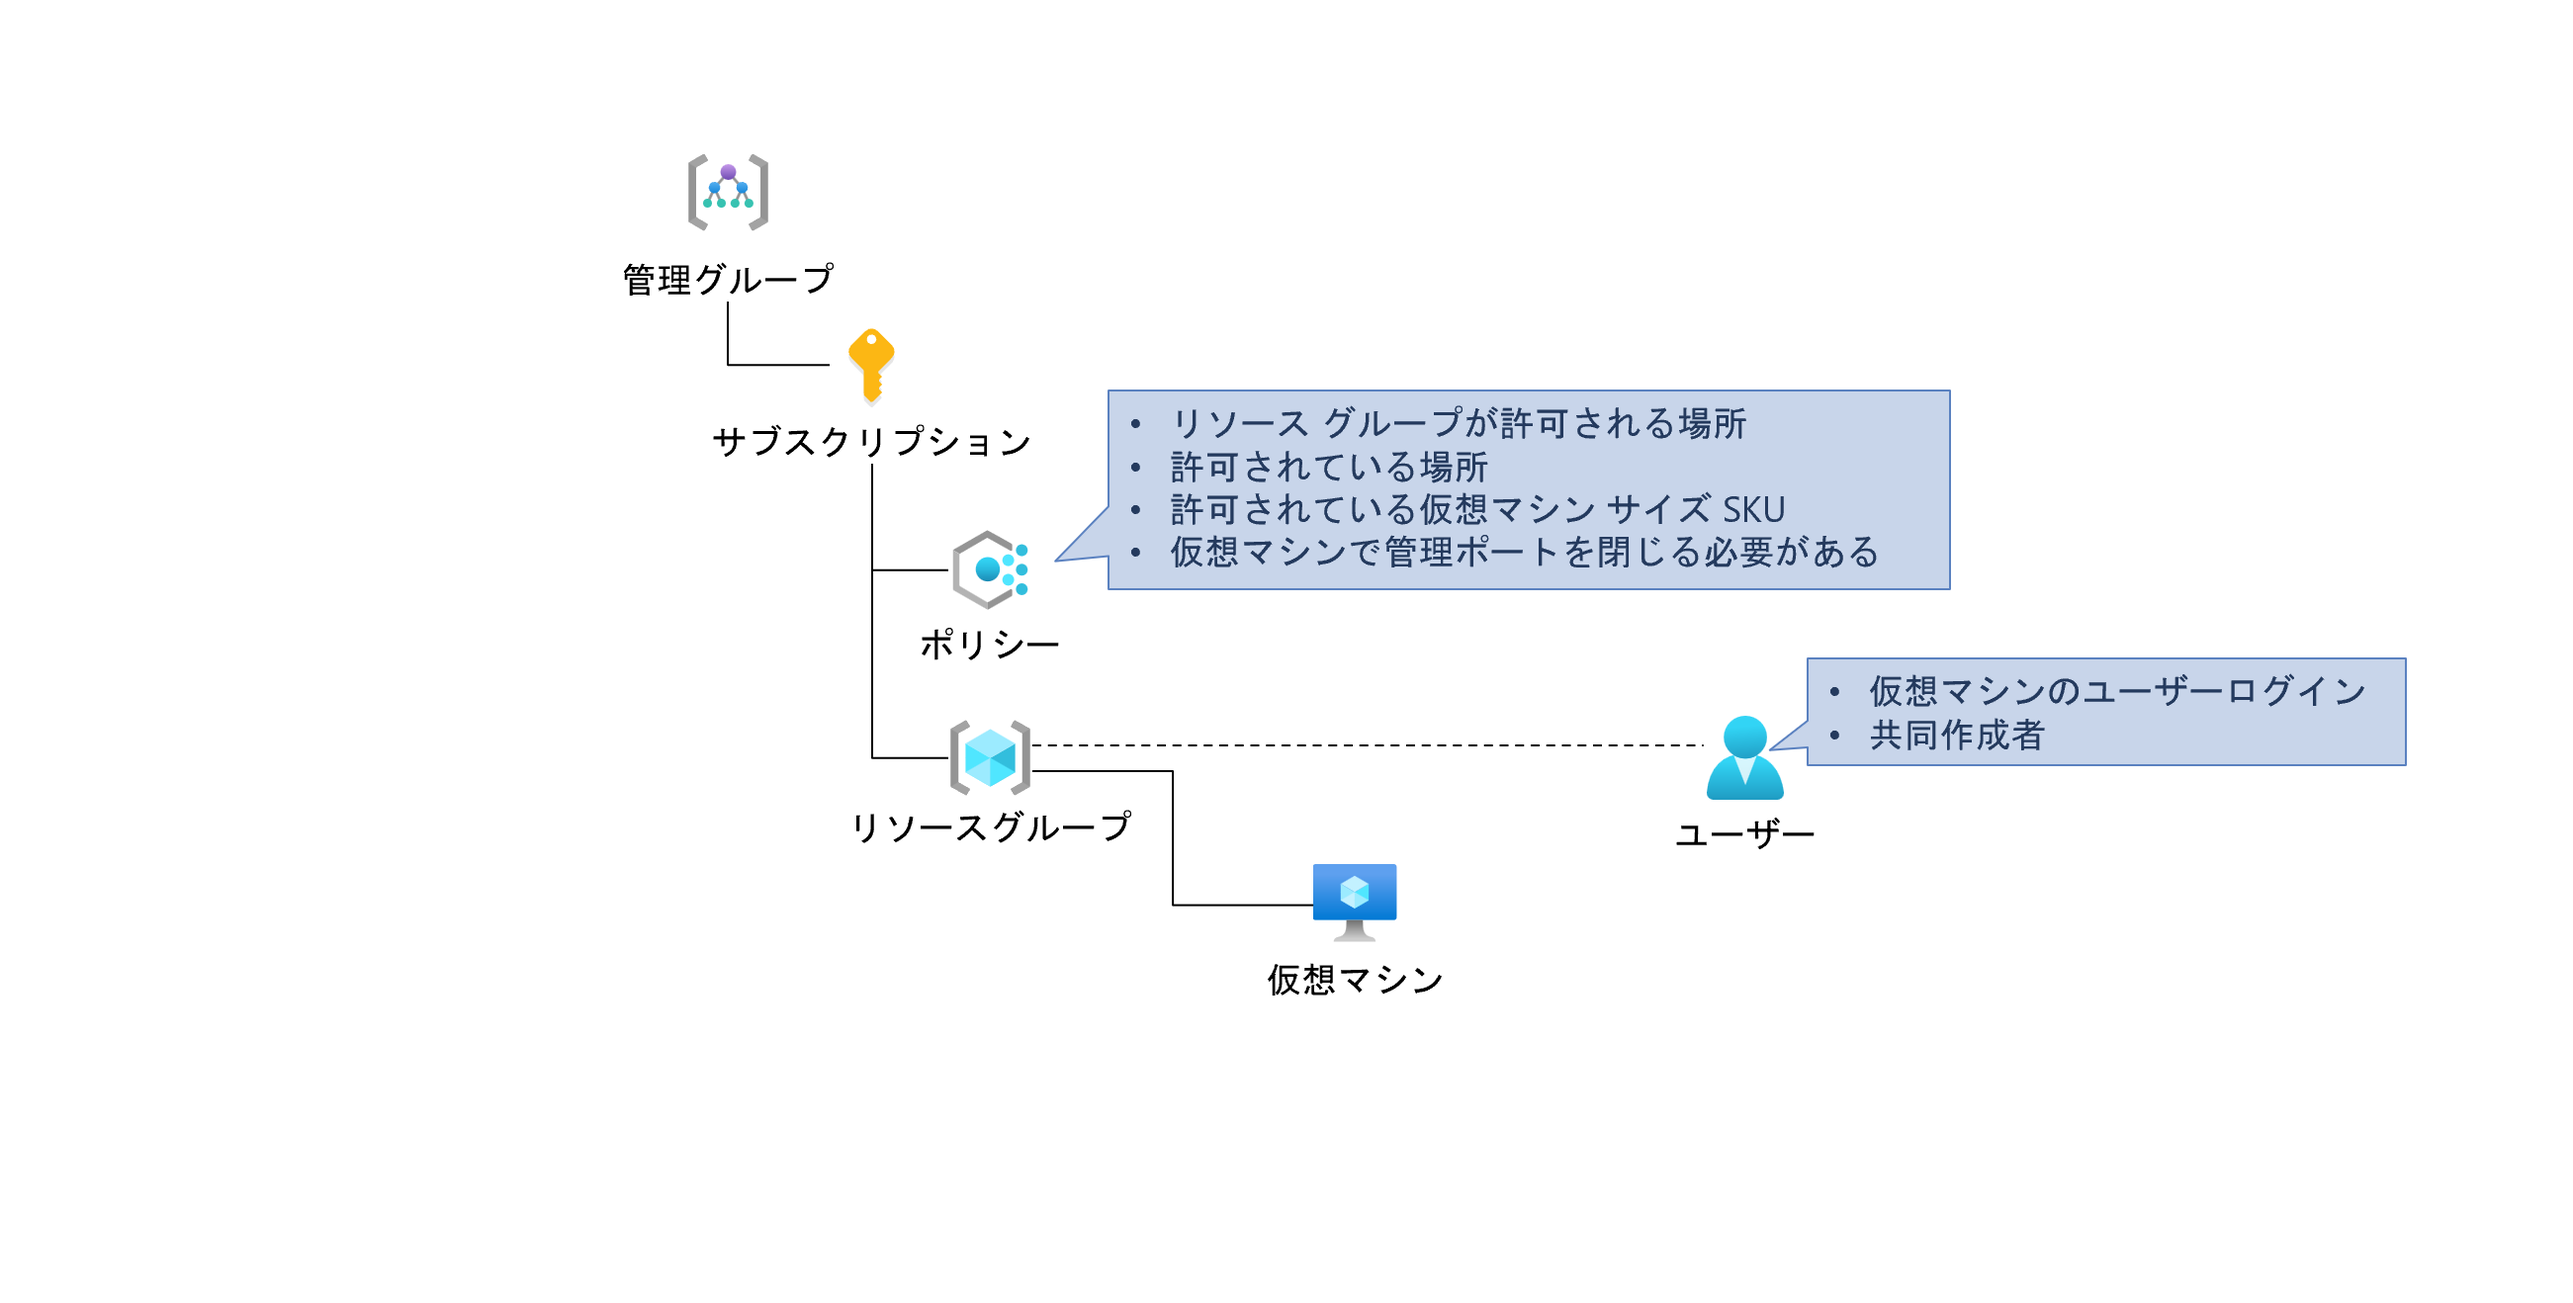
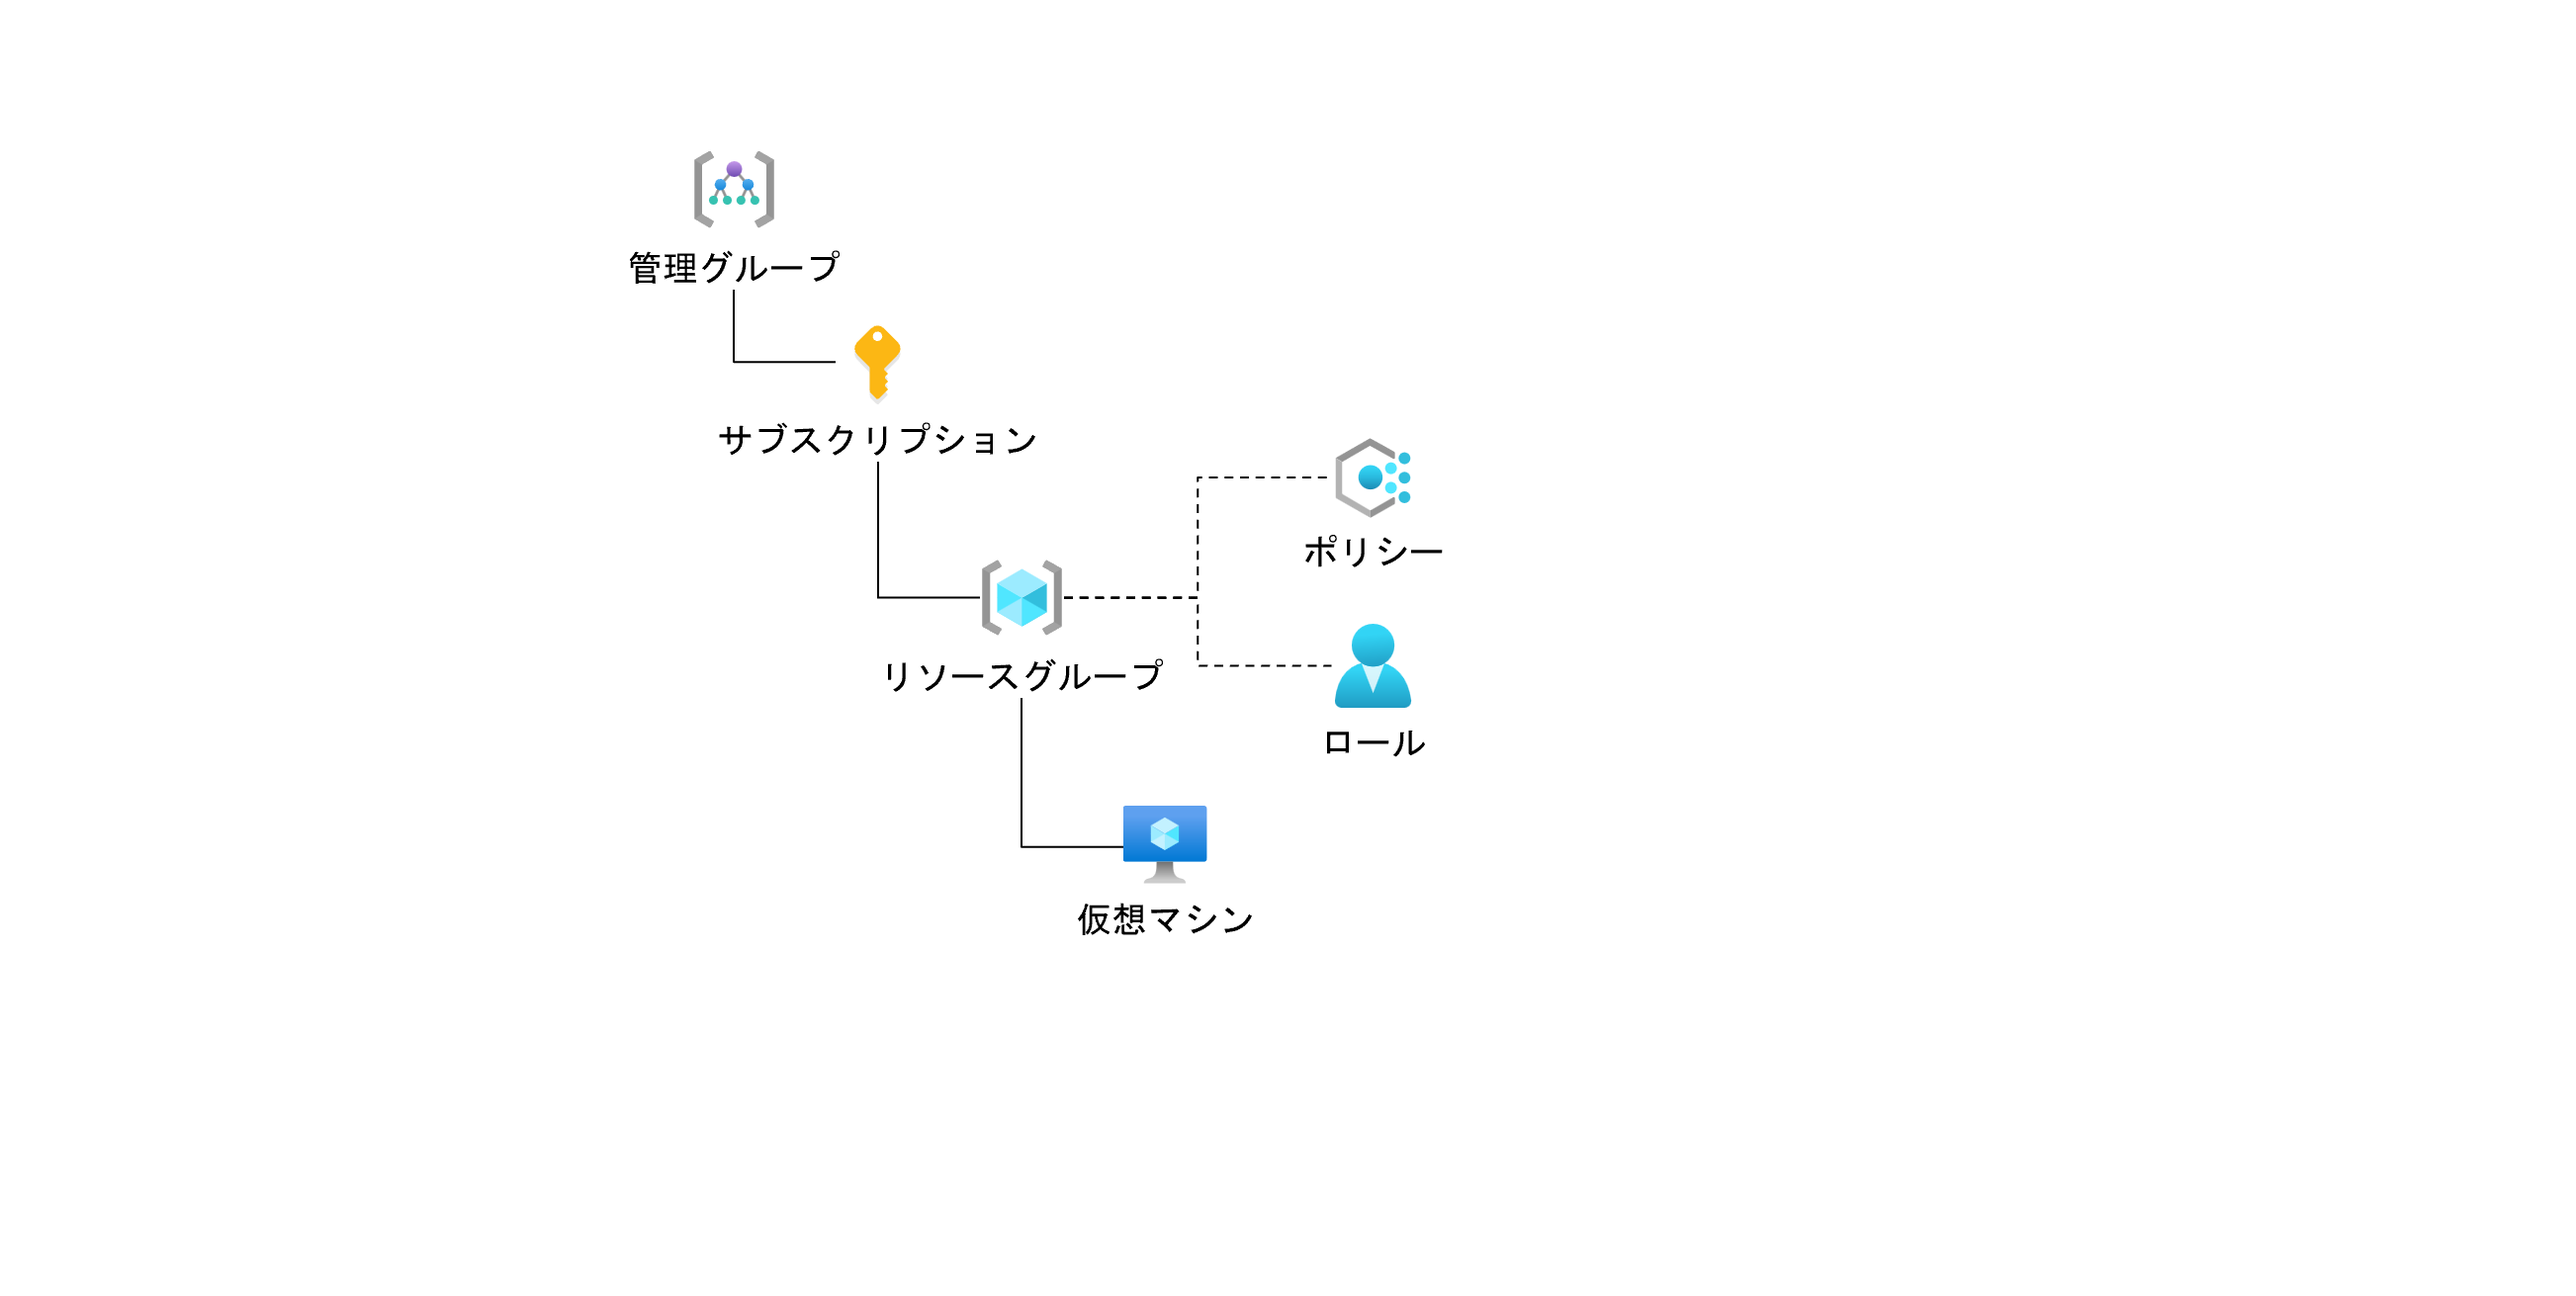
Azure Study 02 へつながるよう見直し

diff --git a/docs/exercise04.md b/docs/exercise04.md
@@ -1,56 +1,75 @@
-# Exercise4: ポリシーの適用
+# Exercise3: ポリシーの適用
 
 ## 【目次】
 
 ![](images/e04-0000-policy.png)
 
-1. [任意のポリシーをサブスクリプションに適用](#任意のポリシーをサブスクリプションに適用)
+1. [リソースグループにポリシーを適用](#リソースグループにポリシーを適用)
+1. [ポリシー準拠状況の確認](#リソースグループにポリシーを適用)
 
-
-## 任意のポリシーをサブスクリプションに適用
+## リソースグループにポリシーを適用
 
 1. Azureポータルの上部検索窓にて「ポリシー」を検索
 
     ![](images/e04-0101-policy.png)
 
-1. [作成]-[定義]を選択
+1. [作成]-[定義]を開く
 
     ![](images/e04-0102-policy.png)
 
-1. 以下にあげるポリシーをサブスクリプションに対して割り当てる
+1. 「検索」を利用して以下のポリシーを探す
 
-    * リソース グループが許可される場所
-    * 許可されている場所
     * 許可されている仮想マシン サイズ SKU
-    * 仮想マシンで管理ポートを閉じる必要がある
 
-    各ポリシーに対して以下の手順で「割り当て」を行っていく
+    ![](images/e04-0103-policy.png)
 
-    1. ポリシー名など検索して該当ポリシーを開く
+1. ポリシーの「割り当て」を選択
 
-        ![](images/e04-0103-policy.png)
+    ![](images/e04-0104-policy.png)
 
-    1. 「割り当て」を選択
+1. ポリシーの割り当て
 
-        ![](images/e04-0104-policy.png)
+    1. 基本
 
-    1. 「リソースグループが許可される場所」の「基本」において以下を設定して「次へ（パラメーター）」
-
-        * スコープ：（適用したいサブスクリプションを選択）
-        * ポリシーの適用：有効
+        * スコープ： (前の手順で作成したリソースグループを選択)
+        * 除外： (なし)
+        * 割り当て名： (任意。デフォルトまま)
 
         ![](images/e04-0105-policy.png)
 
-    1. パラメーター画面にて入力が必要なパラメータがあれば入力して「確認および作成」
+    1. パラメーター
+
+        * 許可されているサイズ SKU： (Standard_B1ls, B1s, B2ms, B2s の4種類を選択)
 
         ![](images/e04-0106-policy.png)
 
+    1. 修復, 非準拠メッセージ
 
-    1. 確認画面にて内容確認して「作成」
+        特に指定なし
+    
+    1. 確認および作成
 
-        ![](images/e04-0107-policy.png)
+        内容を確認して「作成」
 
-1. ポリシーに戻って「コンプライアンス」を確認
+1. ポリシーの [作成]-[割り当て] へ移動
+
+    ![](images/e04-0107-policy.png)
+
+1. 割り当てたポリシーが存在することを確認
 
     ![](images/e04-0108-policy.png)
+
+
+## ポリシー準拠状況の確認
+
+1. ポリシーの[コンプライアンス]を開く
+
+    ![](images/e04-0201-policy.png)
+
+1. 検索で絞り込みを行い、準拠状況を確認
+
+    (*) 現時点ではリソースが何もないので 100% になる
+
+    ![](images/e04-0202-policy.png)
+
 

diff --git a/docs/exercise03.md b/docs/exercise03.md
@@ -1,4 +1,4 @@
-# Exercise3: 仮想マシン作成
+# Exercise5: 仮想マシン作成
 
 ## 【目次】
 
@@ -17,16 +17,27 @@
 
     ![](images/e03-0102-vm.png)
 
-1. 以下の設定をして「確認および作成」
+1. 仮想マシンの作成
 
-    * サブスクリプション： （今回指定のサブスクリプション）
-    * リソースグループ： （作成済みのリソースグループ）
-    * 仮想マシン名： （任意）
-    * 地域： `Japan East`
-    * イメージ： `Windows Server 2019 Datacenter`
-    * サイズ： `Standard_B2s`
-    * ユーザー名、パスワード： （任意）
+    1. サイズがポリシーによって制限されていることを確認
 
-    ![](images/e03-0103-vm.png)
+       「基本」の 「サイズ」にて「すべてのサイズ」を選択した際、ポリシーで制限されていることを確認
 
-1. 「確認および作成」で内容を確認して「作成」
+       (*) ポリシーが反映されるまで時間がかかります。
+            反映されていない場合、しばらく待ってから再度確認してください。
+
+        ![](images/e03-0103-vm.png)
+
+    1. 以下の設定をして「確認および作成」
+
+        * サブスクリプション： （今回指定のサブスクリプション）
+        * リソースグループ： （作成済みのリソースグループ）
+        * 仮想マシン名： （任意）
+        * 地域： `Japan East`
+        * イメージ： `Windows Server 2019 Datacenter`
+        * サイズ： `Standard_B2s` 
+        * ユーザー名、パスワード： （任意）
+
+        ![](images/e03-0104-vm.png)
+
+    1. 「確認および作成」で内容を確認して「作成」

diff --git a/docs/exercise05.md b/docs/exercise05.md
@@ -1,4 +1,4 @@
-# Exercise5: ロールの適用
+# Exercise4: ロールの適用
 
 ## 【目次】
 
@@ -9,7 +9,7 @@
 
 ## 自分自身にロールを適用
 
-1. Azureポータルから「リソースグループ」を開く
+1. Azureポータルから作成した「リソースグループ」を開く
 
 1. 「リソースグループ」の一覧から作成済みのリソースグループを選択
 
@@ -21,17 +21,25 @@
 
     ![](images/e05-0102-role.png)
 
-1. 「共同作成者」を選択して「次へ」
+1. ロールの割り当て
 
-    ![](images/e05-0103-role.png)
+    1. ロール
+    
+        「共同作成者」を選択して「次へ」
 
-1. メンバーページにて「メンバーを追加する」を選択、
-    右メニューにて、自分自身を検索して「選択」
-    登録されたら「次へ」
+        ![](images/e05-0103-role.png)
 
-    ![](images/e05-0104-role.png)
+    1. メンバー
+    
+        「メンバーを追加する」を選択、
+        右メニューにて、自分自身を検索して「選択」
+        登録されたら「次へ」
 
-1. 内容確認して「レビューと割り当て」
+        ![](images/e05-0104-role.png)
+
+    1. レビューと割り当て
+    
+        内容確認して「レビューと割り当て」
 
 1. 「ロールの割り当て」タブへ移動して、割り当てたユーザーが存在することを確認
 

diff --git a/docs/README.md b/docs/README.md
@@ -6,6 +6,6 @@
 
 1. [Azure 利用準備](exercise01.md)
 1. [リソースグループ作成](exercise02.md)
-1. [仮想マシン作成](exercise03.md)
 1. [ポリシーの適用](exercise04.md)
 1. [ロールの適用](exercise05.md)
+1. [仮想マシン作成（オプション）](exercise03.md)

diff --git a/README.md b/README.md
@@ -23,11 +23,11 @@
 ## 前提条件
 
 * ネットワーク知識
-* Node.js を使った開発基礎知識
+
 
 ## ハンズオン資料
 
 <!-- 1. [環境準備](/docs/handson-prepare.md) -->
-1. [ハンズオン](/docs/exercise00.md)
+1. [ハンズオン](/docs/README.md)
 
 

diff --git a/docs/exercise02.md b/docs/exercise02.md
@@ -1,4 +1,4 @@
-# Exercise2: Azure利用準備
+# Exercise2: リソースグループ作成
 
 ## 【目次】
 
